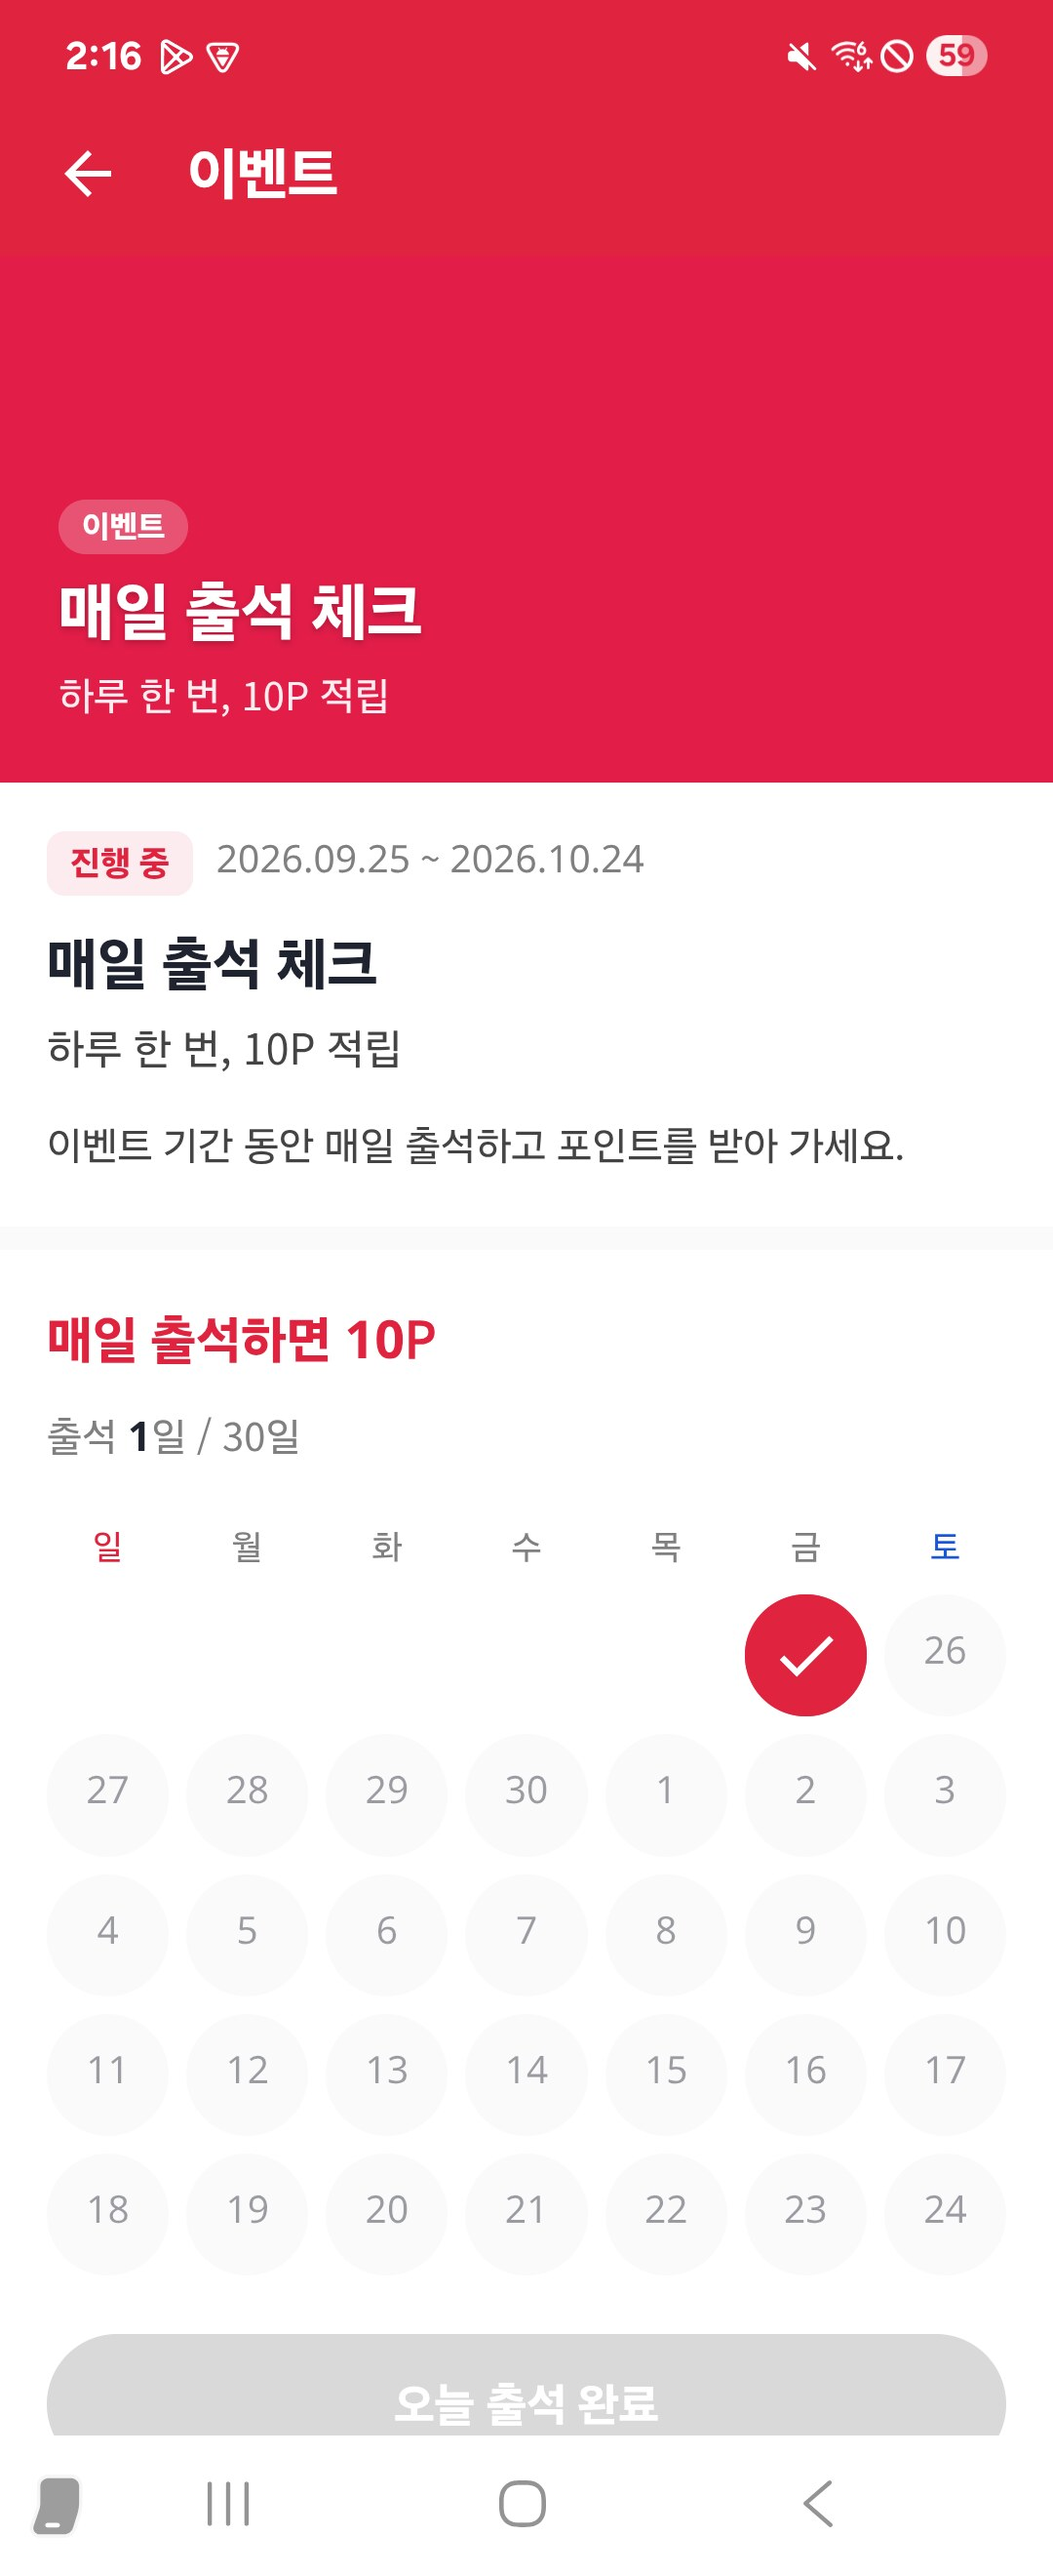
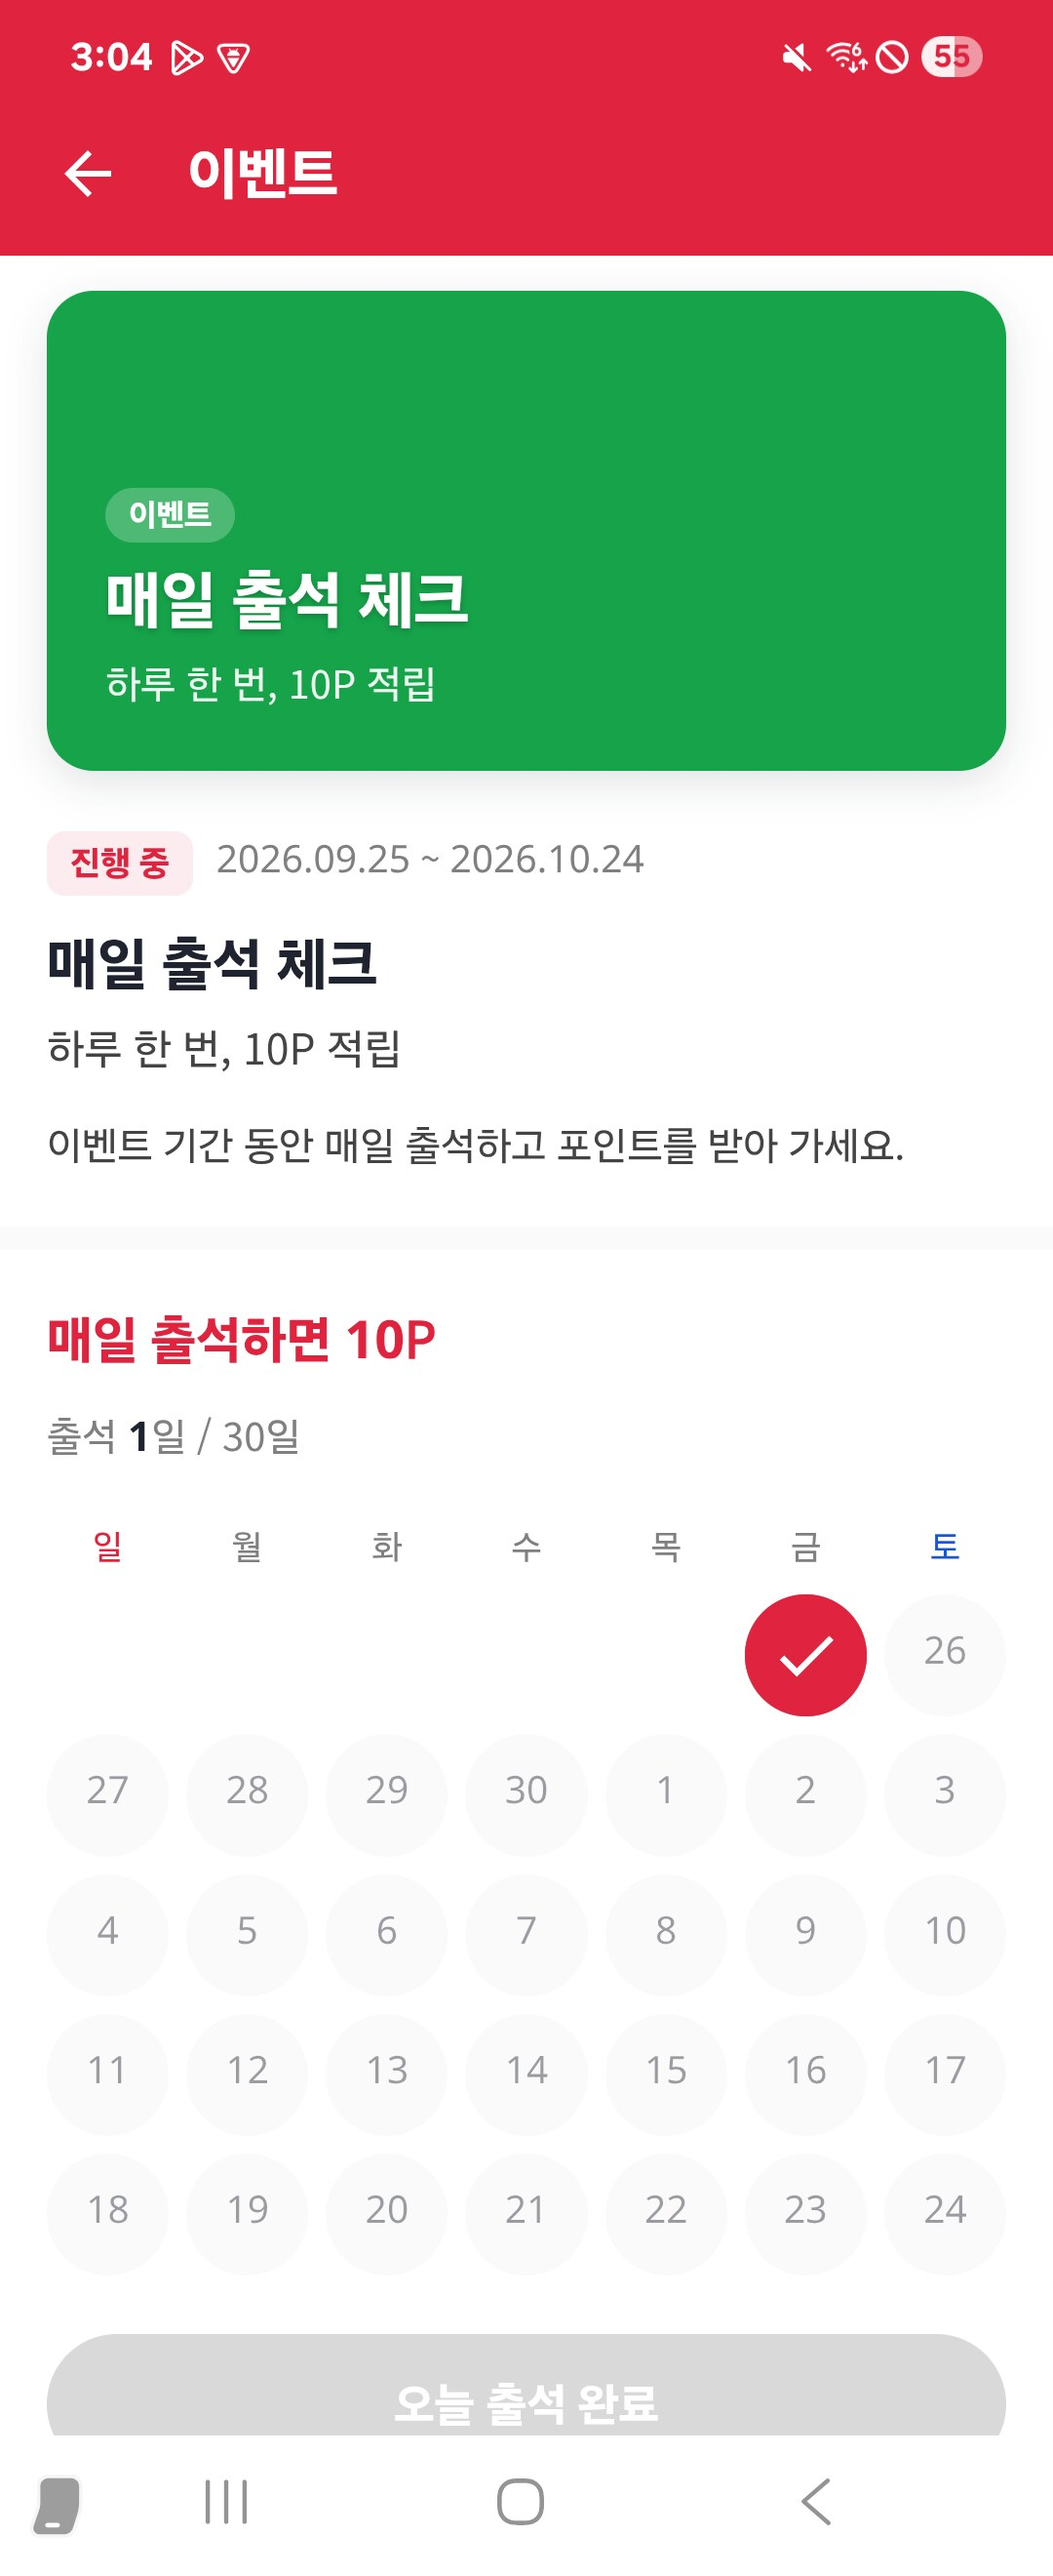
Fix: "기획전·이벤트 상세 배너를 카드로, 마이 → 마이 페이지, 캡처 갱신"
- 상세 상단 배너가 상단 바 바로 밑에 꽉 차게 붙어, 배너 색이 상단 바와 같으면(출석 체크 이벤트) 뒤로 가기 바와 구분되지 않았다. 여백을 둔 둥근 카드(그림자)로 바꿔 어떤 색이어도 구분된다.
- 마이 페이지 제목·하단 탭 이름 "마이" → "마이 페이지"
- README 캡처 갱신: 출석 체크·기획전·쿠폰 받기 이벤트(카드 배너, 출석 이벤트 색은 dev 데이터에서 초록으로), 마이 페이지·카테고리·홈(탭 이름)

diff --git a/web/src/styles.css b/web/src/styles.css
@@ -572,3 +572,7 @@ a.coupon-get { background: var(--surface); color: var(--brand); border: 1px soli
 .promo-coupons .coupon-list { background: var(--bg); }
 .coupon-event-btn { margin: 4px 0 0; }
 .coupon-event .coupon-list { padding: 12px 0; }
+
+/* 기획전·이벤트 상세 배너: 상단 바와 같은 색이어도 섞이지 않게 여백을 둔 둥근 카드로(홈 배너와 같은 모양). */
+.promo-hero { padding: 12px 16px 4px; background: var(--surface); }
+.promo-hero .promo-art { border-radius: 16px; box-shadow: 0 4px 14px rgba(17, 24, 39, 0.12); }

diff --git a/web/src/components/Layout.tsx b/web/src/components/Layout.tsx
@@ -29,7 +29,7 @@ const TABS = [
   { to: '/', label: '홈', icon: <HomeIcon /> },
   { to: '/categories', label: '카테고리', icon: <CategoryIcon /> },
   { to: '/wishlist', label: '찜', icon: <HeartOutlineIcon /> },
-  { to: '/my', label: '마이', icon: <PersonIcon /> },
+  { to: '/my', label: '마이 페이지', icon: <PersonIcon /> },
 ]
 
 export function TabBar() {

diff --git a/web/src/pages/MyPage.tsx b/web/src/pages/MyPage.tsx
@@ -75,7 +75,7 @@ export default function MyPage() {
 
   return (
     <Screen tabs className="my">
-      <TopBar title="마이" />
+      <TopBar title="마이 페이지" />
       <div className="my-hero">
         {profile?.picture ? <img className="avatar" src={profile.picture} alt="" /> : <div className="avatar" aria-hidden="true" />}
         <div className="who">
